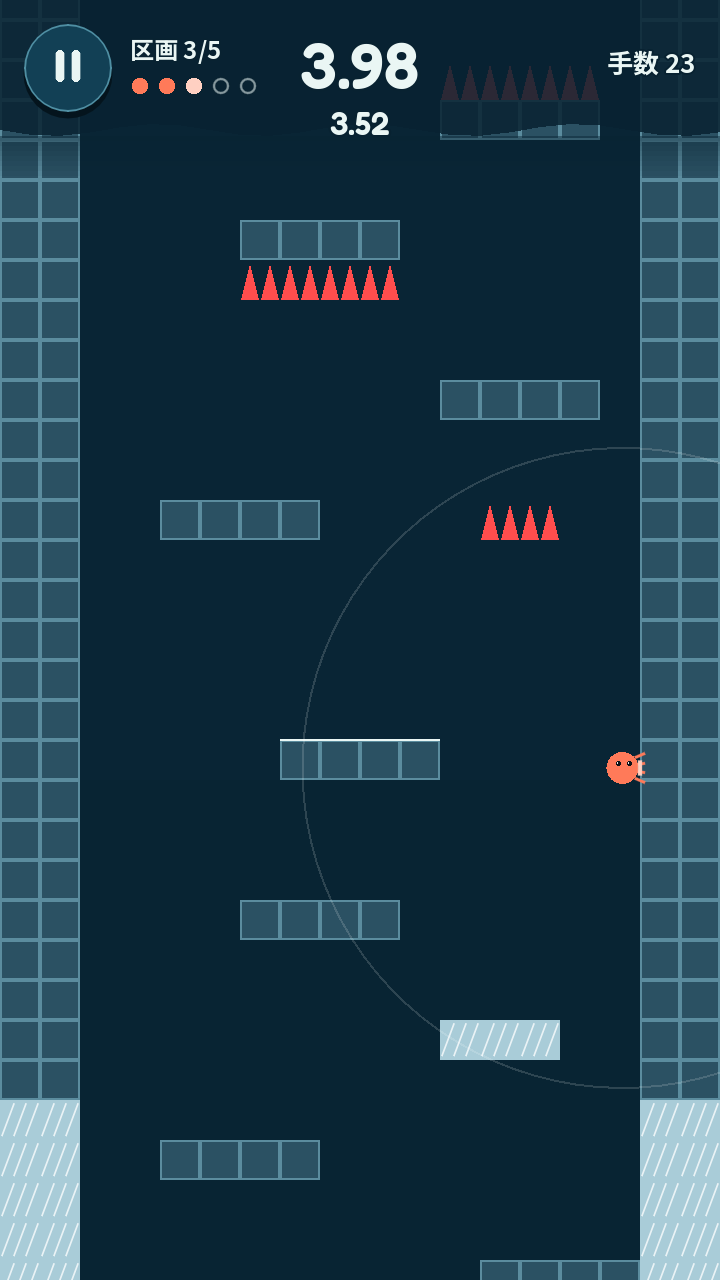
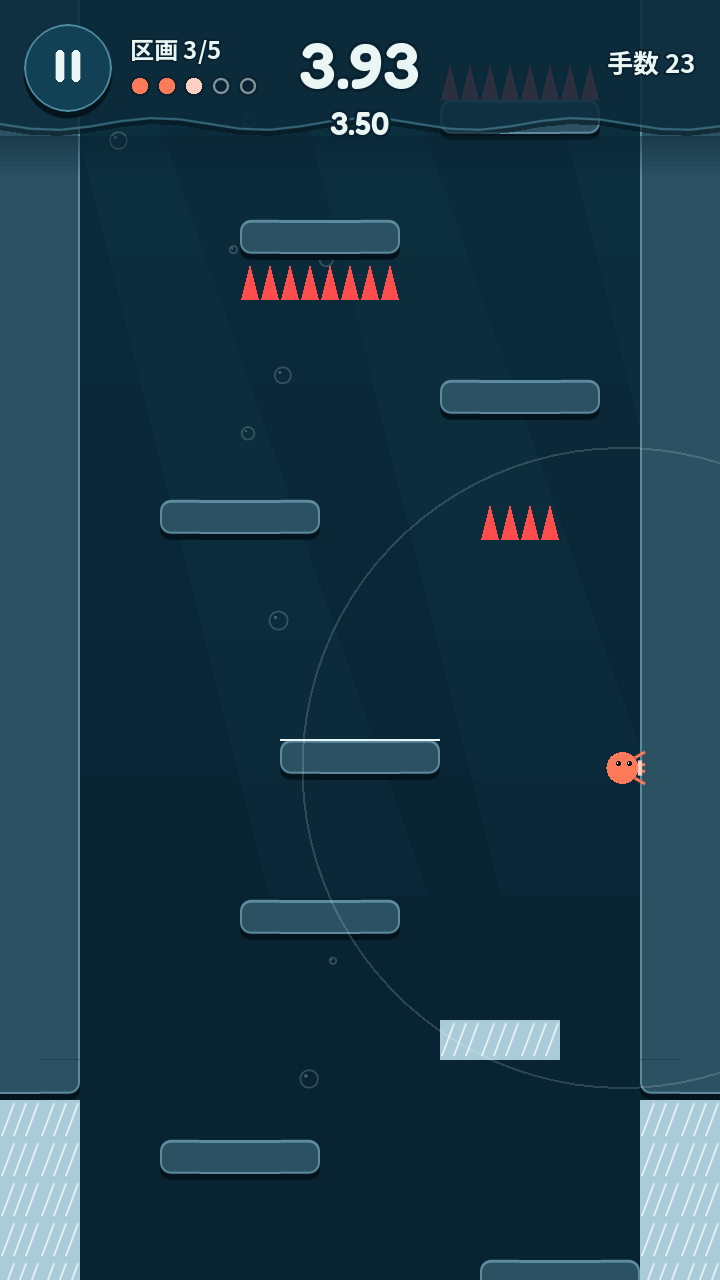
v0.3.1: 遊びの画面の背景と足場をタイトルの海に揃えた(上から差す水の青緑・光の筋・泡を塔の後ろに、壁と足場はタイトルのボタンと同じ明るい縁・丸い角・暗い厚みの板、上の表示の下敷きも同じ板)・テスト 64 件・README の画面写真

diff --git a/tools/contrast.py b/tools/contrast.py
@@ -36,6 +36,12 @@ PAIRS = [
     ("C_TAKO", "C_FIELD_TOP", 3.0, "タコ / 塔の上の背景"),
     ("C_BRITTLE", "C_FIELD_TOP", 3.0, "もろい壁 / 塔の上の背景"),
     ("C_SLICK", "C_FIELD_TOP", 3.0, "ツルツルの壁 / 塔の上の背景"),
+    # v0.3.1: 遊びの画面の上からの光(水の青緑の差しと光の筋)が一番強く重なる所
+    ("C_SPIKE", "C_GLOW", 4.0, "トゲ / 遊びの画面の光の下"),
+    ("C_WALL_EDGE", "C_GLOW", 3.0, "壁の縁 / 遊びの画面の光の下"),
+    ("C_TAKO", "C_GLOW", 3.0, "タコ / 遊びの画面の光の下"),
+    ("C_BRITTLE", "C_GLOW", 3.0, "もろい壁 / 遊びの画面の光の下"),
+    ("C_SLICK", "C_GLOW", 3.0, "ツルツルの壁 / 遊びの画面の光の下"),
 ]
 
 

diff --git a/CHANGELOG.md b/CHANGELOG.md
@@ -2,6 +2,16 @@
 
 この形式は [Keep a Changelog](https://keepachangelog.com/ja/1.1.0/) に沿います。
 
+## [0.3.1] - 2026-11-21
+
+遊びの画面がタイトルと別のゲームに見えたので、同じ海の中に揃えた。ゲームの決まり・調整値・区画・保存の形は変えていない。
+
+### Changed
+
+- 遊びの画面の背景と足場をタイトルの海に揃えた: 上から水の青緑が薄く差し、タイトルと同じ光の筋 3 本と泡 9 個が塔の後ろに見える。どれも塔のマスより後ろに薄く描き、トゲ・もろい壁・ツルツルの壁・タコ・腕の届く輪の手前には出さない。「点滅を弱める」では光を止め、泡を半分の速さにする。
+- 壁と足場を、タイトルのボタンと同じ板にした: マスごとの格子をやめて続いた壁を 1 枚に描き、外に出た辺だけ明るい縁、外に出た角は丸く、下の面に暗い厚み。タイトルの遊び方の絵の足場も同じ形。
+- 上の表示の下敷きを、タイトルの二番目のボタンと同じ板(深い海の面・水色がかった縁・下の暗い厚み)にした。下の端の波の形はそのまま。
+
 ## [0.3.0] - 2026-11-21
 
 UI を作り直した。見た目の方向は「海の中のポップ」: 深い海の青緑の背景に泡と光の帯、珊瑚(タコの色)の一番目のボタン、水色のフォーカスと選んだ値、丸い字の題字と数字。ゲームの決まり・調整値・区画・保存の形は変えていない。
